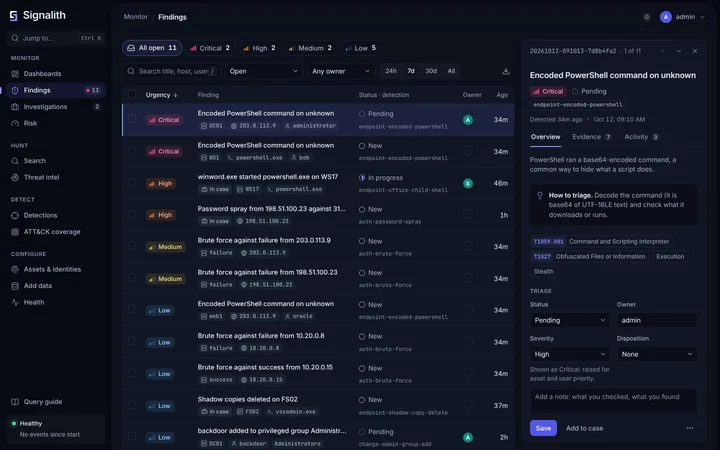
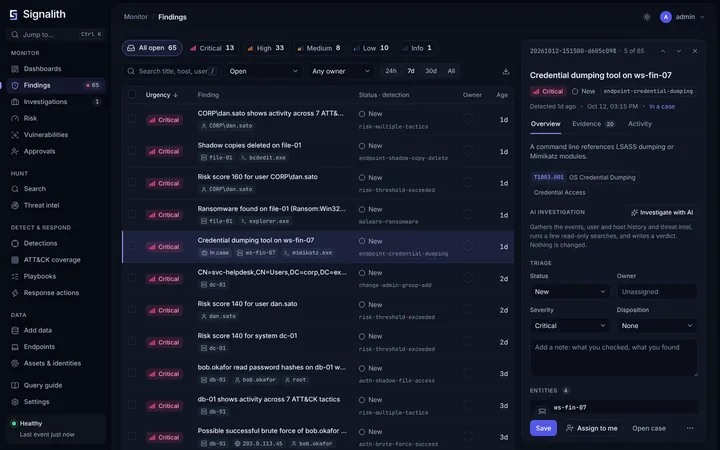
Website: current features, fresh screenshots and a Coming soon section (#103)
* Website: refresh features and add a Coming soon section

Claude-Session: https://claude.ai/code/session_01FfsmonyLbYYFh39VyYfuAo

* Website: fresh screenshots and a longer product tour

Claude-Session: https://claude.ai/code/session_01FfsmonyLbYYFh39VyYfuAo

---------

diff --git a/site/index.html b/site/index.html
@@ -82,6 +82,15 @@
 <symbol id="i-check" viewBox="0 0 24 24" fill="none" stroke="currentColor" stroke-linecap="round" stroke-linejoin="round"><path d="M20 6 9 17l-5-5"/></symbol>
 <symbol id="i-book" viewBox="0 0 24 24" fill="none" stroke="currentColor" stroke-linecap="round" stroke-linejoin="round"><path d="M12 7v14"/><path d="M3 18a1 1 0 0 1-1-1V4a1 1 0 0 1 1-1h5a4 4 0 0 1 4 4 4 4 0 0 1 4-4h5a1 1 0 0 1 1 1v13a1 1 0 0 1-1 1h-6a3 3 0 0 0-3 3 3 3 0 0 0-3-3z"/></symbol>
 <symbol id="i-flask" viewBox="0 0 24 24" fill="none" stroke="currentColor" stroke-linecap="round" stroke-linejoin="round"><path d="M14 2v6a2 2 0 0 0 .245.96l5.51 10.08A2 2 0 0 1 18 22H6a2 2 0 0 1-1.755-2.96l5.51-10.08A2 2 0 0 0 10 8V2"/><path d="M6.453 15h11.094"/><path d="M8.5 2h7"/></symbol>
+<symbol id="i-zap" viewBox="0 0 24 24" fill="none" stroke="currentColor" stroke-linecap="round" stroke-linejoin="round"><path d="M4 14a1 1 0 0 1-.78-1.63l9.9-10.2a.5.5 0 0 1 .86.46l-1.92 6.02A1 1 0 0 0 13 10h7a1 1 0 0 1 .78 1.63l-9.9 10.2a.5.5 0 0 1-.86-.46l1.92-6.02A1 1 0 0 0 11 14z"/></symbol>
+<symbol id="i-bug" viewBox="0 0 24 24" fill="none" stroke="currentColor" stroke-linecap="round" stroke-linejoin="round"><path d="m8 2 1.88 1.88"/><path d="M14.12 3.88 16 2"/><path d="M9 7.13v-1a3.003 3.003 0 1 1 6 0v1"/><path d="M12 20c-3.3 0-6-2.7-6-6v-3a4 4 0 0 1 4-4h4a4 4 0 0 1 4 4v3c0 3.3-2.7 6-6 6"/><path d="M12 20v-9"/><path d="M6.53 9C4.6 8.8 3 7.1 3 5"/><path d="M6 13H2"/><path d="M3 21c0-2.1 1.7-3.9 3.8-4"/><path d="M20.97 5c0 2.1-1.6 3.8-3.5 4"/><path d="M22 13h-4"/><path d="M17.2 17c2.1.1 3.8 1.9 3.8 4"/></symbol>
+<symbol id="i-monitor" viewBox="0 0 24 24" fill="none" stroke="currentColor" stroke-linecap="round" stroke-linejoin="round"><rect width="20" height="14" x="2" y="3" rx="2"/><path d="M8 21h8"/><path d="M12 17v4"/></symbol>
+<symbol id="i-shield-alert" viewBox="0 0 24 24" fill="none" stroke="currentColor" stroke-linecap="round" stroke-linejoin="round"><path d="M20 13c0 5-3.5 7.5-7.66 8.95a1 1 0 0 1-.67-.01C7.5 20.5 4 18 4 13V6a1 1 0 0 1 1-1c2 0 4.5-1.2 6.24-2.72a1.17 1.17 0 0 1 1.52 0C14.51 3.81 17 5 19 5a1 1 0 0 1 1 1z"/><path d="M12 8v4"/><path d="M12 16h.01"/></symbol>
+<symbol id="i-network" viewBox="0 0 24 24" fill="none" stroke="currentColor" stroke-linecap="round" stroke-linejoin="round"><rect x="16" y="16" width="6" height="6" rx="1"/><rect x="2" y="16" width="6" height="6" rx="1"/><rect x="9" y="2" width="6" height="6" rx="1"/><path d="M5 16v-3a1 1 0 0 1 1-1h12a1 1 0 0 1 1 1v3"/><path d="M12 12V8"/></symbol>
+<symbol id="i-clipboard" viewBox="0 0 24 24" fill="none" stroke="currentColor" stroke-linecap="round" stroke-linejoin="round"><rect width="8" height="4" x="8" y="2" rx="1" ry="1"/><path d="M16 4h2a2 2 0 0 1 2 2v14a2 2 0 0 1-2 2H6a2 2 0 0 1-2-2V6a2 2 0 0 1 2-2h2"/><path d="m9 14 2 2 4-4"/></symbol>
+<symbol id="i-package" viewBox="0 0 24 24" fill="none" stroke="currentColor" stroke-linecap="round" stroke-linejoin="round"><path d="M11 21.73a2 2 0 0 0 2 0l7-4A2 2 0 0 0 21 16V8a2 2 0 0 0-1-1.73l-7-4a2 2 0 0 0-2 0l-7 4A2 2 0 0 0 3 8v8a2 2 0 0 0 1 1.73z"/><path d="M12 22V12"/><path d="M3.29 7 12 12l8.71-5"/><path d="m7.5 4.27 9 5.15"/></symbol>
+<symbol id="i-flag" viewBox="0 0 24 24" fill="none" stroke="currentColor" stroke-linecap="round" stroke-linejoin="round"><path d="M4 22V4a1 1 0 0 1 .4-.8A6 6 0 0 1 8 2c3 0 5 2 7.333 2q2 0 3.067-.8A1 1 0 0 1 20 4v10a1 1 0 0 1-.4.8A6 6 0 0 1 16 16c-3 0-5-2-8-2a6 6 0 0 0-4 1.528"/></symbol>
+<symbol id="i-scan" viewBox="0 0 24 24" fill="none" stroke="currentColor" stroke-linecap="round" stroke-linejoin="round"><path d="M3 7V5a2 2 0 0 1 2-2h2"/><path d="M17 3h2a2 2 0 0 1 2 2v2"/><path d="M21 17v2a2 2 0 0 1-2 2h-2"/><path d="M7 21H5a2 2 0 0 1-2-2v-2"/><circle cx="12" cy="12" r="3"/><path d="m16 16-1.9-1.9"/></symbol>
 <symbol id="i-menu" viewBox="0 0 24 24" fill="none" stroke="currentColor" stroke-linecap="round" stroke-linejoin="round"><path d="M4 6h16"/><path d="M4 12h16"/><path d="M4 18h16"/></symbol>
 </svg>
 
@@ -93,8 +102,9 @@
     <nav class="nav__links" aria-label="Main">
       <a href="#demo">Demo</a>
       <a href="#features">Features</a>
-      <a href="#query">Queries</a>
-      <a href="#security">Security</a>
+      <a class="nav__opt" href="#query">Queries</a>
+      <a class="nav__opt" href="#security">Security</a>
+      <a href="#soon">Coming soon</a>
       <a href="#start">Get started</a>
       <a href="docs/">Docs</a>
     </nav>
@@ -165,17 +175,20 @@
   <!-- Product tour -->
   <div class="wrap tour" id="tour">
     <div class="tour__tabs" role="tablist" aria-label="Signalith pages">
-      <button role="tab" id="t-findings" aria-controls="p-tour" aria-selected="true" data-shot="findings" data-cap="A triage queue for findings, ranked by urgency, with triage guidance, evidence and ATT&amp;CK techniques next to each one.">Findings</button>
+      <button role="tab" id="t-findings" aria-controls="p-tour" aria-selected="true" data-shot="findings" data-cap="A triage queue for findings, ranked by urgency, with triage guidance, evidence, ATT&amp;CK techniques and Investigate with AI next to each one.">Findings</button>
       <button role="tab" id="t-search" aria-controls="p-tour" aria-selected="false" tabindex="-1" data-shot="search" data-cap="Ask a question in plain English or write a pipe query. Results come back as tables, charts and events you can click to dig further.">Search</button>
       <button role="tab" id="t-dashboard" aria-controls="p-tour" aria-selected="false" tabindex="-1" data-shot="dashboard" data-cap="A security posture dashboard out of the box: open findings, triage speed, top risk and data health, compared with the previous period.">Dashboards</button>
+      <button role="tab" id="t-detections" aria-controls="p-tour" aria-selected="false" tabindex="-1" data-shot="detections" data-cap="Thousands of tested SigmaHQ and Splunk rules ship with Signalith, off until you turn them on, next to your own detections.">Detections</button>
       <button role="tab" id="t-investigation" aria-controls="p-tour" aria-selected="false" tabindex="-1" data-shot="investigation" data-cap="Investigation cases gather findings, notes, saved searches and pinned events on one timeline, with the users, hosts and IPs involved.">Investigations</button>
+      <button role="tab" id="t-endpoints" aria-controls="p-tour" aria-selected="false" tabindex="-1" data-shot="endpoints" data-cap="Every host running osquery, with its failing configuration checks, file changes and inventory, and whether its log agent is sending.">Endpoints</button>
+      <button role="tab" id="t-vulnerabilities" aria-controls="p-tour" aria-selected="false" tabindex="-1" data-shot="vulnerabilities" data-cap="Nmap scans matched to CVEs from the National Vulnerability Database, with the ones attackers are known to use first.">Vulnerabilities</button>
+      <button role="tab" id="t-malware" aria-controls="p-tour" aria-selected="false" tabindex="-1" data-shot="malware" data-cap="Antivirus logs from Defender, ClamAV and syslog products in one place: what was found, what the antivirus did, and where protection is off.">Malware</button>
       <button role="tab" id="t-intel" aria-controls="p-tour" aria-selected="false" tabindex="-1" data-shot="intel" data-cap="Add free threat intel feeds from a catalog, any list or STIX file, or a TAXII 2.1 server, and match every event against them.">Threat intel</button>
-      <button role="tab" id="t-security" aria-controls="p-tour" aria-selected="false" tabindex="-1" data-shot="security" data-cap="The Security page checks how your server is set up, what is encrypted and what to fix first, in plain words.">Security</button>
     </div>
     <figure class="frame" id="p-tour" role="tabpanel" aria-labelledby="t-findings">
       <div class="frame__bar" aria-hidden="true"><i></i><i></i><i></i><span>https://signalith.corp.example:8080</span></div>
       <img class="frame__img" src="assets/shots/findings.webp" srcset="assets/shots/findings-720.webp 720w, assets/shots/findings.webp 1440w" sizes="(max-width: 1200px) 100vw, 1140px" width="1440" height="900" alt="The Signalith Findings page: a queue of findings with severity, status and owner, and an inspector panel for the selected finding." data-tour-img>
-      <figcaption data-tour-cap>A triage queue for findings, ranked by urgency, with triage guidance, evidence and ATT&amp;CK techniques next to each one.</figcaption>
+      <figcaption data-tour-cap>A triage queue for findings, ranked by urgency, with triage guidance, evidence, ATT&amp;CK techniques and Investigate with AI next to each one.</figcaption>
     </figure>
   </div>
 </section>
@@ -183,9 +196,9 @@
 <!-- Strip of facts -->
 <section class="facts" aria-label="At a glance">
   <div class="wrap facts__in">
-    <div><b>21</b><span>ATT&amp;CK-mapped detections built in</span></div>
-    <div><b>Sigma</b><span>rules import with one click</span></div>
-    <div><b>2</b><span>platforms: Windows service or systemd</span></div>
+    <div><b>2,900+</b><span>tested detection rules from SigmaHQ and Splunk</span></div>
+    <div><b>ATT&amp;CK</b><span>mapping on every rule, with a coverage map</span></div>
+    <div><b>2</b><span>platforms: Windows and Linux packages</span></div>
     <div><b>$0</b><span>license cost, Apache 2.0</span></div>
   </div>
 </section>
@@ -223,22 +236,42 @@
       <article class="card">
         <span class="card__icon"><svg class="icon" aria-hidden="true"><use href="#i-search"/></svg></span>
         <h3>Search that reads like SPL</h3>
-        <p>A pipe-based query language with <code>stats</code>, <code>timechart</code>, <code>where</code> and friends, CIM-style data models, autocomplete, and a visual builder that writes the query as you click.</p>
-      </article>
-      <article class="card">
-        <span class="card__icon"><svg class="icon" aria-hidden="true"><use href="#i-sparkles"/></svg></span>
-        <h3>Ask in plain English</h3>
-        <p>Type <i>top 10 users with failed logins today</i> and get the query, with how each phrase was read. Works offline; an AI model is optional, and only your question is ever sent.</p>
+        <p>A pipe-based query language with <code>stats</code>, <code>timechart</code>, <code>where</code>, regular expressions, CIM-style data models, autocomplete, plain-English questions, and a visual builder that writes the query as you click.</p>
       </article>
       <article class="card">
         <span class="card__icon"><svg class="icon" aria-hidden="true"><use href="#i-crosshair"/></svg></span>
-        <h3>Detections and a findings queue</h3>
-        <p>Scheduled detections mapped to MITRE ATT&amp;CK, Sigma import, an ATT&amp;CK coverage matrix, and a triage queue with owners, statuses, dispositions and bulk actions.</p>
+        <h3>Thousands of detections, tested</h3>
+        <p>2,028 SigmaHQ and 855 Splunk Security Content rules, each with test events that prove it fires, mapped to ATT&amp;CK. Turn on the high and critical ones in one click, and get new rules through signed content updates.</p>
       </article>
       <article class="card">
         <span class="card__icon"><svg class="icon" aria-hidden="true"><use href="#i-gauge"/></svg></span>
-        <h3>Risk-based alerting</h3>
-        <p>Weak signals add risk to users and hosts instead of flooding the queue. One finding fires when an object crosses a threshold, weighted by your asset and identity lists.</p>
+        <h3>Findings and risk-based alerting</h3>
+        <p>A triage queue with owners, statuses and bulk actions. Weak signals add risk to users and hosts instead of flooding it, and exceptions and maintenance windows keep noisy rules quiet.</p>
+      </article>
+      <article class="card">
+        <span class="card__icon"><svg class="icon" aria-hidden="true"><use href="#i-sparkles"/></svg></span>
+        <h3>Investigate with AI</h3>
+        <p>One click on a finding gathers the evidence, lets an AI model run a few searches of its own, and returns a verdict with a timeline. Off until an admin turns it on, and you see exactly what is sent.</p>
+      </article>
+      <article class="card">
+        <span class="card__icon"><svg class="icon" aria-hidden="true"><use href="#i-zap"/></svg></span>
+        <h3>Response actions and playbooks</h3>
+        <p>Block an IP, disable a directory account or isolate a host from a finding. Chain steps into playbooks that wait for an analyst&rsquo;s approval, and send alerts to Slack, Teams, email or a webhook.</p>
+      </article>
+      <article class="card">
+        <span class="card__icon"><svg class="icon" aria-hidden="true"><use href="#i-bug"/></svg></span>
+        <h3>Vulnerability scanning</h3>
+        <p>Scan the networks you list with Nmap on a schedule, and match the software it finds to CVEs from the National Vulnerability Database, worst hosts first, with a dashboard.</p>
+      </article>
+      <article class="card">
+        <span class="card__icon"><svg class="icon" aria-hidden="true"><use href="#i-monitor"/></svg></span>
+        <h3>Endpoints with osquery</h3>
+        <p>File changes, hardware and software inventory, and configuration checks from osquery on Windows and Linux, managed from Signalith. Wazuh agent alerts come in too.</p>
+      </article>
+      <article class="card">
+        <span class="card__icon"><svg class="icon" aria-hidden="true"><use href="#i-shield-alert"/></svg></span>
+        <h3>Antivirus and malware</h3>
+        <p>Microsoft Defender, ClamAV and syslog antivirus products land in one Malware data model, with detections for disabled protection and new exclusions, and a malware dashboard.</p>
       </article>
       <article class="card">
         <span class="card__icon"><svg class="icon" aria-hidden="true"><use href="#i-radar"/></svg></span>
@@ -253,17 +286,12 @@
       <article class="card">
         <span class="card__icon"><svg class="icon" aria-hidden="true"><use href="#i-layout"/></svg></span>
         <h3>Dashboards</h3>
-        <p>A security posture dashboard out of the box, plus your own: ask a question, pick a chart, done. Dashboards are YAML files, so they can live in Git.</p>
+        <p>Security posture, vulnerabilities and malware dashboards out of the box, plus your own: ask a question, pick a chart, done. Dashboards are YAML files, so they can live in Git.</p>
       </article>
       <article class="card">
         <span class="card__icon"><svg class="icon" aria-hidden="true"><use href="#i-database"/></svg></span>
         <h3>Easy data collection</h3>
-        <p>The Add data page writes a ready Fluent Bit setup for Windows or Linux, with the address, token and certificate filled in. Syslog and CEF from network devices too.</p>
-      </article>
-      <article class="card">
-        <span class="card__icon"><svg class="icon" aria-hidden="true"><use href="#i-flask"/></svg></span>
-        <h3>Sample data in one click</h3>
-        <p>No logs to hand? Load a week of activity for a fictional company with attacks hidden in it, watch detections fire, then remove it all with one click.</p>
+        <p>Ready Fluent Bit setups for Windows and Linux, syslog and CEF from network devices, and OpenTelemetry logs, each agent with its own token you can revoke. Or load sample data in one click.</p>
       </article>
     </div>
   </div>
@@ -311,12 +339,13 @@
       <div class="flow__col">
         <div class="node"><b>Fluent Bit agents</b><span>Windows event logs, Sysmon, Linux auth and audit</span></div>
         <div class="node"><b>Syslog devices</b><span>Firewalls, switches and appliances: UDP, TCP or TLS, CEF</span></div>
+        <div class="node"><b>More sources</b><span>OpenTelemetry, osquery, Wazuh and Nmap scans</span></div>
       </div>
       <div class="flow__arrow" aria-hidden="true"><span>HTTPS</span></div>
       <div class="node node--core">
         <svg class="node__mark" viewBox="6 2 20 28" aria-hidden="true"><path fill="currentColor" d="M6 4.5A2.5 2.5 0 0 1 8.5 2H22A4 4 0 0 1 26 6V6H16A6 6 0 0 0 10 12A6 6 0 0 0 16 18A2 2 0 0 1 18 20A2 2 0 0 1 16 22H6Z"/><path style="fill:var(--brand-signal)" d="M26 27.5A2.5 2.5 0 0 1 23.5 30H10A4 4 0 0 1 6 26V26H16A6 6 0 0 0 22 20A6 6 0 0 0 16 14A2 2 0 0 1 14 12A2 2 0 0 1 16 10H26Z"/></svg>
         <b>Signalith</b>
-        <span>Parsing and data models · query language · detections and risk · threat intel · cases · web UI and API</span>
+        <span>Parsing and data models · query language · detections and risk · threat intel · cases · response · web UI and API</span>
       </div>
       <div class="flow__arrow" aria-hidden="true"><span>TLS</span></div>
       <div class="flow__col">
@@ -329,6 +358,8 @@
       <li><b>Fluent Bit</b><span>log collection</span></li>
       <li><b>Sigma</b><span>detection rules</span></li>
       <li><b>MITRE ATT&amp;CK</b><span>technique mapping</span></li>
+      <li><b>osquery</b><span>endpoint visibility</span></li>
+      <li><b>Nmap</b><span>vulnerability scanning</span></li>
     </ul>
   </div>
 </section>
@@ -345,11 +376,13 @@
         <li><svg class="icon" aria-hidden="true"><use href="#i-lock"/></svg><span><b>Secrets encrypted at rest</b> with a master key, DPAPI on Windows.</span></li>
         <li><svg class="icon" aria-hidden="true"><use href="#i-lock"/></svg><span><b>No default passwords.</b> The Docker setup makes its own, and OpenSearch runs with security on.</span></li>
         <li><svg class="icon" aria-hidden="true"><use href="#i-lock"/></svg><span><b>Roles and directory sign-in:</b> viewer, analyst and admin, from your AD or LDAP groups.</span></li>
+        <li><svg class="icon" aria-hidden="true"><use href="#i-lock"/></svg><span><b>A token per agent,</b> so one lost machine is revoked without touching the rest.</span></li>
         <li><svg class="icon" aria-hidden="true"><use href="#i-lock"/></svg><span><b>Hardened service:</b> its own account on Windows, systemd sandboxing on Linux.</span></li>
+        <li><svg class="icon" aria-hidden="true"><use href="#i-lock"/></svg><span><b>Verifiable releases</b> with an SBOM and build attestations for every package and image.</span></li>
       </ul>
     </div>
     <figure class="frame frame--tilt">
-      <div class="frame__bar" aria-hidden="true"><i></i><i></i><i></i><span>Configure / Security</span></div>
+      <div class="frame__bar" aria-hidden="true"><i></i><i></i><i></i><span>Settings / Security</span></div>
       <img class="frame__img" src="assets/shots/security-720.webp" srcset="assets/shots/security-720.webp 720w, assets/shots/security.webp 1440w" sizes="(max-width: 900px) 100vw, 600px" width="1440" height="900" loading="lazy" alt="The Signalith Security page listing what to fix first and whether data is encrypted in transit.">
     </figure>
   </div>
@@ -361,7 +394,7 @@
     <div class="section__head">
       <p class="kicker">Get started</p>
       <h2>Running in a few minutes.</h2>
-      <p class="section__lede">Try it on your own computer with Docker, or install it as a service on Linux or Windows next to OpenSearch.</p>
+      <p class="section__lede">Try it on your own computer with Docker, or install the package for Linux or Windows next to OpenSearch.</p>
     </div>
     <div class="start">
       <div class="start__tabs" role="tablist" aria-label="Install options">
@@ -385,27 +418,61 @@ cd signalith</code></pre><button class="copy" type="button" aria-label="Copy"><s
 
       <div class="start__panel" role="tabpanel" id="sp-linux" aria-labelledby="s-linux" hidden>
         <ol class="steps">
-          <li><p>Install <a href="https://opensearch.org/docs/latest/install-and-configure/install-opensearch/index/">OpenSearch 2.x</a>, and build Signalith with Go (<code>go build ./cmd/signalith</code>).</p></li>
-          <li><p>Install it as a systemd service:</p>
-<div class="code"><pre><code>sudo install -m 0755 signalith /usr/local/bin/signalith
-sudo useradd --system --no-create-home signalith
-sudo signalith init -c /etc/signalith/signalith.yaml -opensearch http://127.0.0.1:9200
-sudo chown -R signalith /etc/signalith /var/lib/signalith
-sudo cp deploy/systemd/signalith.service /etc/systemd/system/
-sudo systemctl enable --now signalith</code></pre><button class="copy" type="button" aria-label="Copy"><svg class="icon" aria-hidden="true"><use href="#i-copy"/></svg></button></div></li>
-          <li><p><code>init</code> prints the admin password once. Open <code>https://&lt;server&gt;:8080</code> and sign in as <code>admin</code>.</p></li>
+          <li><p>Install <a href="https://opensearch.org/docs/latest/install-and-configure/install-opensearch/index/">OpenSearch 2.x</a>, then download the <code>.deb</code> or <code>.rpm</code> for your system from the <a href="https://github.com/jrsamsanchez/Signalith/releases/latest">latest release</a>.</p></li>
+          <li><p>Install it. Signalith starts as a systemd service:</p>
+<div class="code"><pre><code>sudo apt install ./signalith_*_amd64.deb      # Debian, Ubuntu
+sudo dnf install ./signalith-*.x86_64.rpm     # Red Hat, Rocky, Alma, Fedora</code></pre><button class="copy" type="button" aria-label="Copy"><svg class="icon" aria-hidden="true"><use href="#i-copy"/></svg></button></div></li>
+          <li><p>Show the admin password, then open <code>https://&lt;server&gt;:8080</code> and sign in as <code>admin</code>.</p>
+<div class="code"><pre><code>sudo signalith initial-password</code></pre><button class="copy" type="button" aria-label="Copy"><svg class="icon" aria-hidden="true"><use href="#i-copy"/></svg></button></div></li>
         </ol>
       </div>
 
       <div class="start__panel" role="tabpanel" id="sp-windows" aria-labelledby="s-windows" hidden>
         <ol class="steps">
-          <li><p>Install <a href="https://opensearch.org/docs/latest/install-and-configure/install-opensearch/windows/">OpenSearch 2.x for Windows</a>, and build <code>signalith.exe</code> with Go.</p></li>
-          <li><p>In PowerShell as Administrator, from the folder with <code>signalith.exe</code> and <code>deploy\windows\install.ps1</code>:</p>
-<div class="code"><pre><code>.\install.ps1 -OpenSearchUrl http://127.0.0.1:9200</code></pre><button class="copy" type="button" aria-label="Copy"><svg class="icon" aria-hidden="true"><use href="#i-copy"/></svg></button></div></li>
-          <li><p>This installs and starts the <b>Signalith</b> service under its own account. Open <code>https://localhost:8080</code> and sign in as <code>admin</code>.</p></li>
+          <li><p>Install <a href="https://opensearch.org/docs/latest/install-and-configure/install-opensearch/windows/">OpenSearch 2.x for Windows</a>, then download <code>signalith-&lt;version&gt;-x64.msi</code> from the <a href="https://github.com/jrsamsanchez/Signalith/releases/latest">latest release</a>.</p></li>
+          <li><p>Double-click it and follow the steps. It installs and starts the <b>Signalith</b> service under its own account.</p></li>
+          <li><p>In PowerShell as Administrator, show the admin password, then open <code>https://localhost:8080</code> and sign in as <code>admin</code>.</p>
+<div class="code"><pre><code>signalith initial-password</code></pre><button class="copy" type="button" aria-label="Copy"><svg class="icon" aria-hidden="true"><use href="#i-copy"/></svg></button></div></li>
         </ol>
       </div>
-      <p class="start__more"><svg class="icon" aria-hidden="true"><use href="#i-book"/></svg>Full instructions, upgrades and every setting are in the <a href="docs/getting-started/">documentation</a>.</p>
+      <p class="start__more"><svg class="icon" aria-hidden="true"><use href="#i-book"/></svg>Full instructions, upgrades, checking a download and every setting are in the <a href="docs/getting-started/">documentation</a>.</p>
+    </div>
+  </div>
+</section>
+
+<!-- Coming soon -->
+<section class="section section--alt" id="soon">
+  <div class="wrap">
+    <div class="section__head">
+      <p class="kicker">Coming soon</p>
+      <h2>What is being built next.</h2>
+      <p class="section__lede">Signalith is built in the open and things ship when they are ready and tested, so there are no dates here. The <a href="docs/roadmap/">roadmap</a> has the detail, and ideas are welcome as <a href="https://github.com/jrsamsanchez/Signalith/issues/new/choose">feature requests</a>.</p>
+    </div>
+    <div class="soon">
+      <article class="soon__item">
+        <span class="card__icon"><svg class="icon" aria-hidden="true"><use href="#i-server"/></svg></span>
+        <div><h3>Add a server</h3><p>Add Signalith servers from the UI to share the load, with users, settings and detections shared between them.</p></div>
+      </article>
+      <article class="soon__item">
+        <span class="card__icon"><svg class="icon" aria-hidden="true"><use href="#i-scan"/></svg></span>
+        <div><h3>A scanner for each network</h3><p>Vulnerability scanners placed in each network zone, with OpenVAS as an option for deeper scans.</p></div>
+      </article>
+      <article class="soon__item">
+        <span class="card__icon"><svg class="icon" aria-hidden="true"><use href="#i-clipboard"/></svg></span>
+        <div><h3>Compliance and evidence</h3><p>Detections and reports mapped to frameworks such as PCI DSS, NIST 800-53 and ISO 27001, with evidence an auditor can take away.</p></div>
+      </article>
+      <article class="soon__item">
+        <span class="card__icon"><svg class="icon" aria-hidden="true"><use href="#i-network"/></svg></span>
+        <div><h3>Network sensor</h3><p>An optional sensor running Zeek and Suricata with free Emerging Threats rules, feeding network events and alerts into Signalith.</p></div>
+      </article>
+      <article class="soon__item">
+        <span class="card__icon"><svg class="icon" aria-hidden="true"><use href="#i-package"/></svg></span>
+        <div><h3>Easier installs and upgrades</h3><p>apt and dnf repositories so updates arrive with the rest of the system, and a code-signed Windows installer.</p></div>
+      </article>
+      <article class="soon__item">
+        <span class="card__icon"><svg class="icon" aria-hidden="true"><use href="#i-flag"/></svg></span>
+        <div><h3>Version 1.0</h3><p>Fuzzing of every network parser, an outside security review, published load test numbers, and then 1.0.</p></div>
+      </article>
     </div>
   </div>
 </section>

diff --git a/site/assets/site.css b/site/assets/site.css
@@ -84,9 +84,9 @@ code { overflow-wrap: anywhere; font-family: var(--font-mono); font-size: .88em;
 /* Nav ---------------------------------------------------------------------- */
 .nav { position: sticky; top: 0; z-index: 50; transition: background .2s, box-shadow .2s; }
 .nav__in { display: flex; align-items: center; gap: 24px; height: 64px; }
-.nav__brand { color: var(--text); display: inline-flex; }
+.nav__brand { color: var(--text); display: inline-flex; flex: none; }
 .nav__links { display: flex; gap: 4px; margin-left: 16px; }
-.nav__links a { padding: 6px 12px; border-radius: var(--r-md); color: var(--text-2); font-size: 14.5px; font-weight: 500; }
+.nav__links a { white-space: nowrap; padding: 6px 12px; border-radius: var(--r-md); color: var(--text-2); font-size: 14.5px; font-weight: 500; }
 .nav__links a:hover { color: var(--text); background: var(--accent-soft); text-decoration: none; }
 .nav__end { display: flex; align-items: center; gap: 6px; margin-left: auto; }
 .nav__menu { display: none; }
@@ -256,10 +256,17 @@ h2 { margin-top: 12px; font-size: clamp(30px, 4vw, 44px); font-weight: 650; line
 .flow__arrow { position: relative; height: 2px; background: linear-gradient(90deg, var(--line-2), var(--accent)); }
 .flow__arrow::after { content: ""; position: absolute; right: -1px; top: -4px; border: 5px solid transparent; border-left: 7px solid var(--accent); border-right: 0; }
 .flow__arrow span { position: absolute; left: 50%; top: -24px; transform: translateX(-50%); font: 500 11px/1 var(--font-mono); color: var(--text-3); letter-spacing: .04em; }
-.built { display: grid; grid-template-columns: repeat(4, 1fr); gap: 12px; margin-top: 48px; padding: 0; list-style: none; }
+.built { display: grid; grid-template-columns: repeat(6, 1fr); gap: 12px; margin-top: 48px; padding: 0; list-style: none; }
 .built li { display: grid; gap: 2px; padding: 16px 18px; border-radius: var(--r-lg); border: 1px dashed var(--line-2); }
 .built b { font-size: 15px; font-weight: 600; }
 .built span { font-size: 13.5px; color: var(--text-3); }
+
+/* Coming soon */
+.soon { display: grid; grid-template-columns: repeat(3, 1fr); gap: 16px; }
+.soon__item { display: flex; gap: 16px; align-items: flex-start; padding: 22px 24px; border-radius: var(--r-xl); border: 1px dashed var(--line-2); background: color-mix(in srgb, var(--sheet) 55%, transparent); }
+.soon__item .card__icon { flex: none; }
+.soon__item h3 { font-size: 16.5px; font-weight: 600; letter-spacing: -0.02em; }
+.soon__item p { margin-top: 6px; font-size: 14.5px; color: var(--text-2); }
 
 .frame--tilt { transform: perspective(1600px) rotateY(-6deg) rotateX(2deg); transition: transform .5s var(--ease); }
 .frame--tilt:hover { transform: none; }
@@ -318,6 +325,7 @@ h2 { margin-top: 12px; font-size: clamp(30px, 4vw, 44px); font-weight: 650; line
   .stage__tether { width: 26px; }
 }
 @media (max-width: 1040px) {
+  .nav__opt { display: none; }
   .hero__in { grid-template-columns: 1fr; text-align: center; min-height: 0; }
   .hero__lede { margin-left: auto; margin-right: auto; }
   .hero__cta, .hero__facts { justify-content: center; }
@@ -329,7 +337,12 @@ h2 { margin-top: 12px; font-size: clamp(30px, 4vw, 44px); font-weight: 650; line
   .flow__arrow { width: 2px; height: 44px; margin: 4px auto; background: linear-gradient(180deg, var(--line-2), var(--accent)); }
   .flow__arrow::after { right: -4px; top: auto; bottom: -1px; border: 5px solid transparent; border-top: 7px solid var(--accent); border-bottom: 0; }
   .flow__arrow span { left: 14px; top: 50%; transform: translateY(-50%); }
-  .built { grid-template-columns: repeat(2, 1fr); }
+  .built { grid-template-columns: repeat(3, 1fr); }
+  .soon { grid-template-columns: repeat(2, 1fr); }
+}
+@media (max-width: 900px) {
+  .nav__links { margin-left: 4px; gap: 0; }
+  .nav__links a { padding: 6px 9px; }
 }
 @media (max-width: 760px) {
   .nav__links, .nav__gh { display: none; }
@@ -363,6 +376,8 @@ h2 { margin-top: 12px; font-size: clamp(30px, 4vw, 44px); font-weight: 650; line
   .grid { grid-template-columns: 1fr; }
   .demo__read li { grid-template-columns: 1fr; gap: 2px; }
   .built { grid-template-columns: 1fr 1fr; }
+  .soon { grid-template-columns: 1fr; }
+  .soon__item { padding: 20px; }
   .start__panel { padding: 22px 18px; }
   .code pre, .demo__code { white-space: pre-wrap; }
   .code pre code, .demo__code code { overflow-wrap: anywhere; }

diff --git a/site/assets/site.js b/site/assets/site.js
@@ -60,11 +60,14 @@ const tourCap = document.querySelector('[data-tour-cap]');
 const tourPanel = document.getElementById('p-tour');
 const alts = {
   findings: 'The Signalith Findings page: a queue of findings with severity, status and owner, and an inspector panel for the selected finding.',
-  search: 'The Signalith Search page: a plain-English question box, a query, a timeline and a table of results.',
-  dashboard: 'The Signalith Security posture dashboard: key numbers, findings by hour, top detections and top risk objects.',
+  search: 'The Signalith Search page: a plain-English question turned into a query, with a timeline and a table of results.',
+  dashboard: 'The Signalith Security posture dashboard: key numbers, new findings by urgency, top detections and top risk objects.',
+  detections: 'The Signalith Detections page with the SigmaHQ and Splunk Security Content rule packs and the list of detections.',
   investigation: 'A Signalith investigation case with its timeline of notes and findings, and its details.',
+  endpoints: 'The Signalith Endpoints page listing osquery hosts with their status, failing configuration checks and log agent.',
+  vulnerabilities: 'The Signalith Vulnerabilities dashboard: hosts with known exploited and critical CVEs, and what to patch first.',
+  malware: 'The Signalith Malware dashboard: hosts with malware, what the antivirus did, and the top threats.',
   intel: 'The Signalith threat intel feed catalog with free feeds to add.',
-  security: 'The Signalith Security page listing what to fix first and whether data is encrypted in transit.',
 };
 // warm the cache so switching is instant
 addEventListener('load', () => Object.keys(alts).forEach((k) => { const i = new Image(); i.src = `assets/shots/${k}.webp`; }));
@@ -134,7 +137,7 @@ if (floor) {
 }
 
 // Reveal on scroll ------------------------------------------------------------
-const revealables = document.querySelectorAll('.section__head, .card, .split > *, .flow, .built, .start, .facts__in > div');
+const revealables = document.querySelectorAll('.section__head, .card, .soon__item, .split > *, .flow, .built, .start, .facts__in > div');
 if ('IntersectionObserver' in window && !reduced) {
   const io = new IntersectionObserver((entries) => entries.forEach((e) => {
     if (e.isIntersecting) { e.target.classList.add('is-in'); io.unobserve(e.target); }
